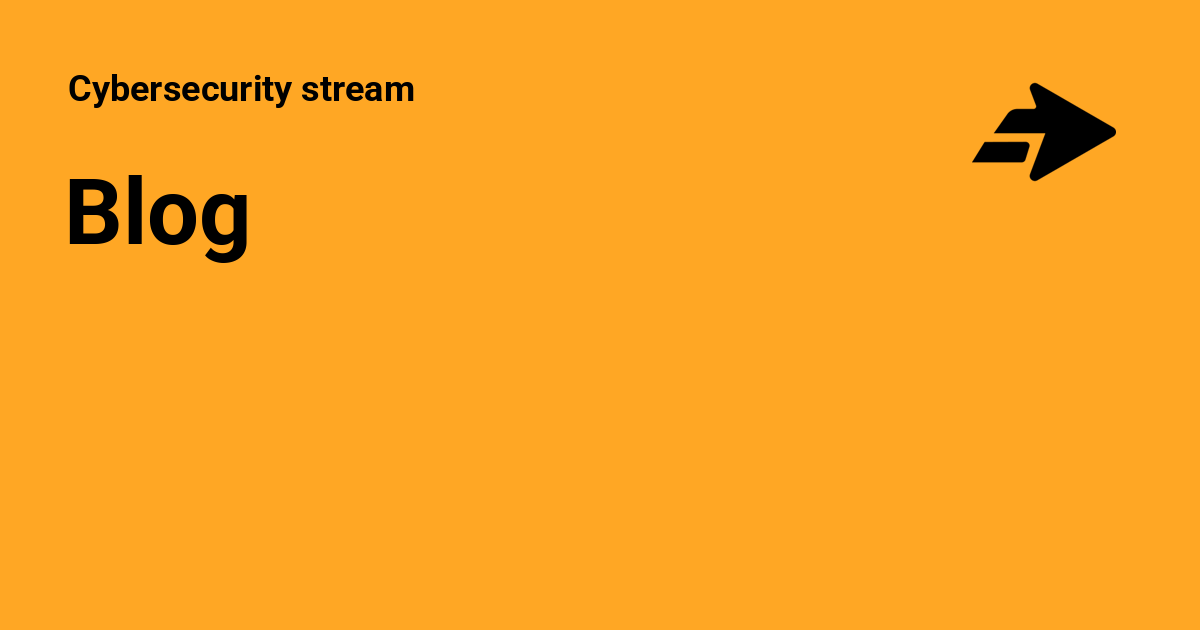
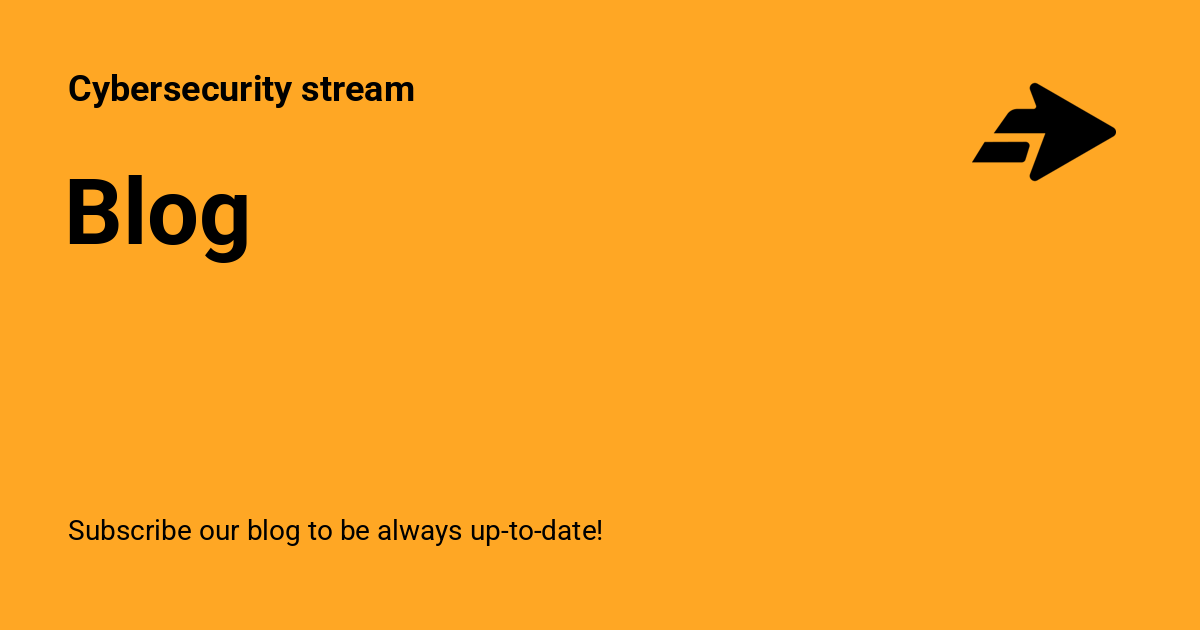
Deployed ab4b644 with MkDocs version: 1.6.1

Changed region(s): [[0.0617, 0.8143, 0.4933, 0.8746]]

diff --git a/blog/index.html b/blog/index.html
@@ -6,6 +6,8 @@
       <meta charset="utf-8">
       <meta name="viewport" content="width=device-width,initial-scale=1">
       
+        <meta name="description" content="Subscribe our blog to be always up-to-date!">
+      
       
       
         <link rel="canonical" href="https://cybersecuritystream.github.io/blog/">
@@ -66,7 +68,7 @@
       
         <meta  property="og:title"  content="Blog - Cybersecurity stream" >
       
-        <meta  property="og:description"  content="None" >
+        <meta  property="og:description"  content="Subscribe our blog to be always up-to-date!" >
       
         <meta  property="og:image"  content="https://cybersecuritystream.github.io/assets/images/social/blog/index.png" >
       
@@ -82,7 +84,7 @@
       
         <meta  name="twitter:title"  content="Blog - Cybersecurity stream" >
       
-        <meta  name="twitter:description"  content="None" >
+        <meta  name="twitter:description"  content="Subscribe our blog to be always up-to-date!" >
       
         <meta  name="twitter:image"  content="https://cybersecuritystream.github.io/assets/images/social/blog/index.png" >
       
